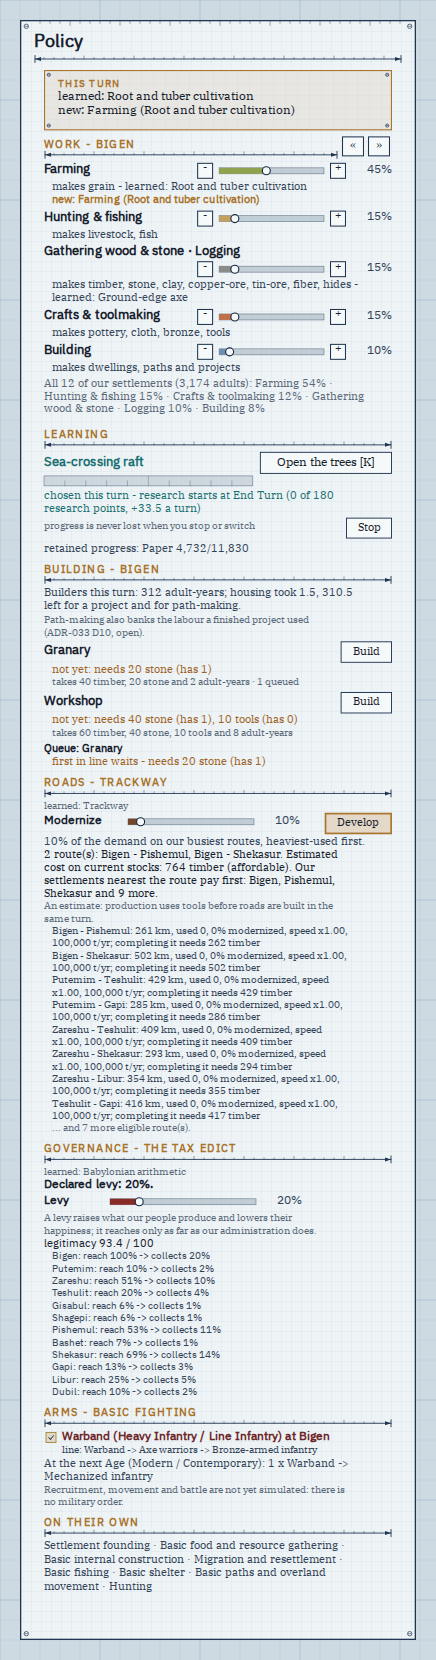
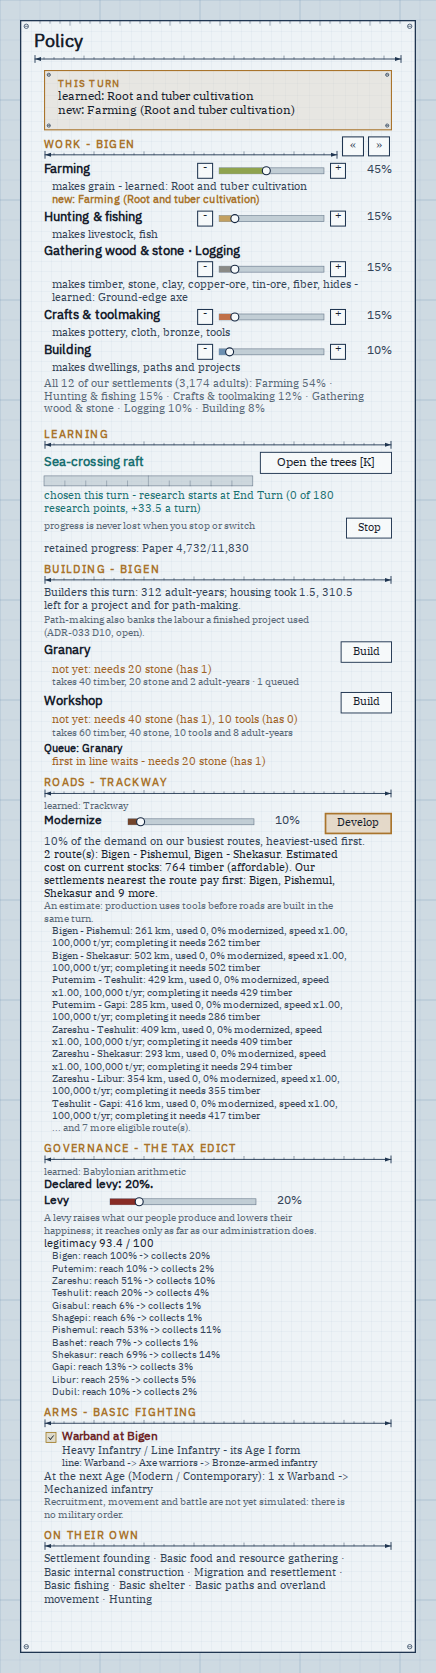
feat(ui): the roster card names the formation's current Age identity; previews re-rendered
"Basic fighting" shows each formation as "Warband at Bigen", then its family and its current Age form
("Heavy Infantry / Line Infantry - its Age I form"), the family line at the grouped densities and the
modernization at the next Age — still information only (no military order exists, ADR-033 D7). The
committed previews are re-rendered from this commit's code.

Claude-Session: https://claude.ai/code/session_01MdgpcnPgQAkk63mHFvEsdo

Changed region(s): [[0.0894, 0.0, 0.8945, 0.9524]]

diff --git a/Sim.Ui/Actions/ActionSurfaceScreen.cs b/Sim.Ui/Actions/ActionSurfaceScreen.cs
@@ -742,8 +742,10 @@ public sealed class ActionSurfaceScreen
         foreach (FormationEntry f in mb.Formations)
         {
             EraMarks.State(d, t, x + 7, y + L(13) / 2, 5, MarkKind.Completed, 1, 941 + k, dim: true);
-            string head = f.Identity + " (" + f.Family + ") at " + f.Where;
-            y = Wrapped(d, m, head, x + 18, y, w - 18, 13, t.Semantic.Military, FontRole.Heading);
+            y = Wrapped(d, m, f.Identity + " at " + f.Where, x + 18, y, w - 18, 13, t.Semantic.Military, FontRole.Heading);
+            // The family line and the formation's CURRENT Age identity (ADR-031: it modernizes with the Age).
+            string form = f.Family + (f.IdentityAge > 0 ? " - its Age " + AgePanelModel.Numeral(f.IdentityAge) + " form" : "");
+            y = Wrapped(d, m, form, x + 18, y, w - 18, 11.5, t.Ink.TextSoft);
             if (!flat && f.Line.Length > 0) y = Wrapped(d, m, "line: " + f.Line, x + 18, y, w - 18, 11, t.Ink.TextSoft);
             k++;
         }
